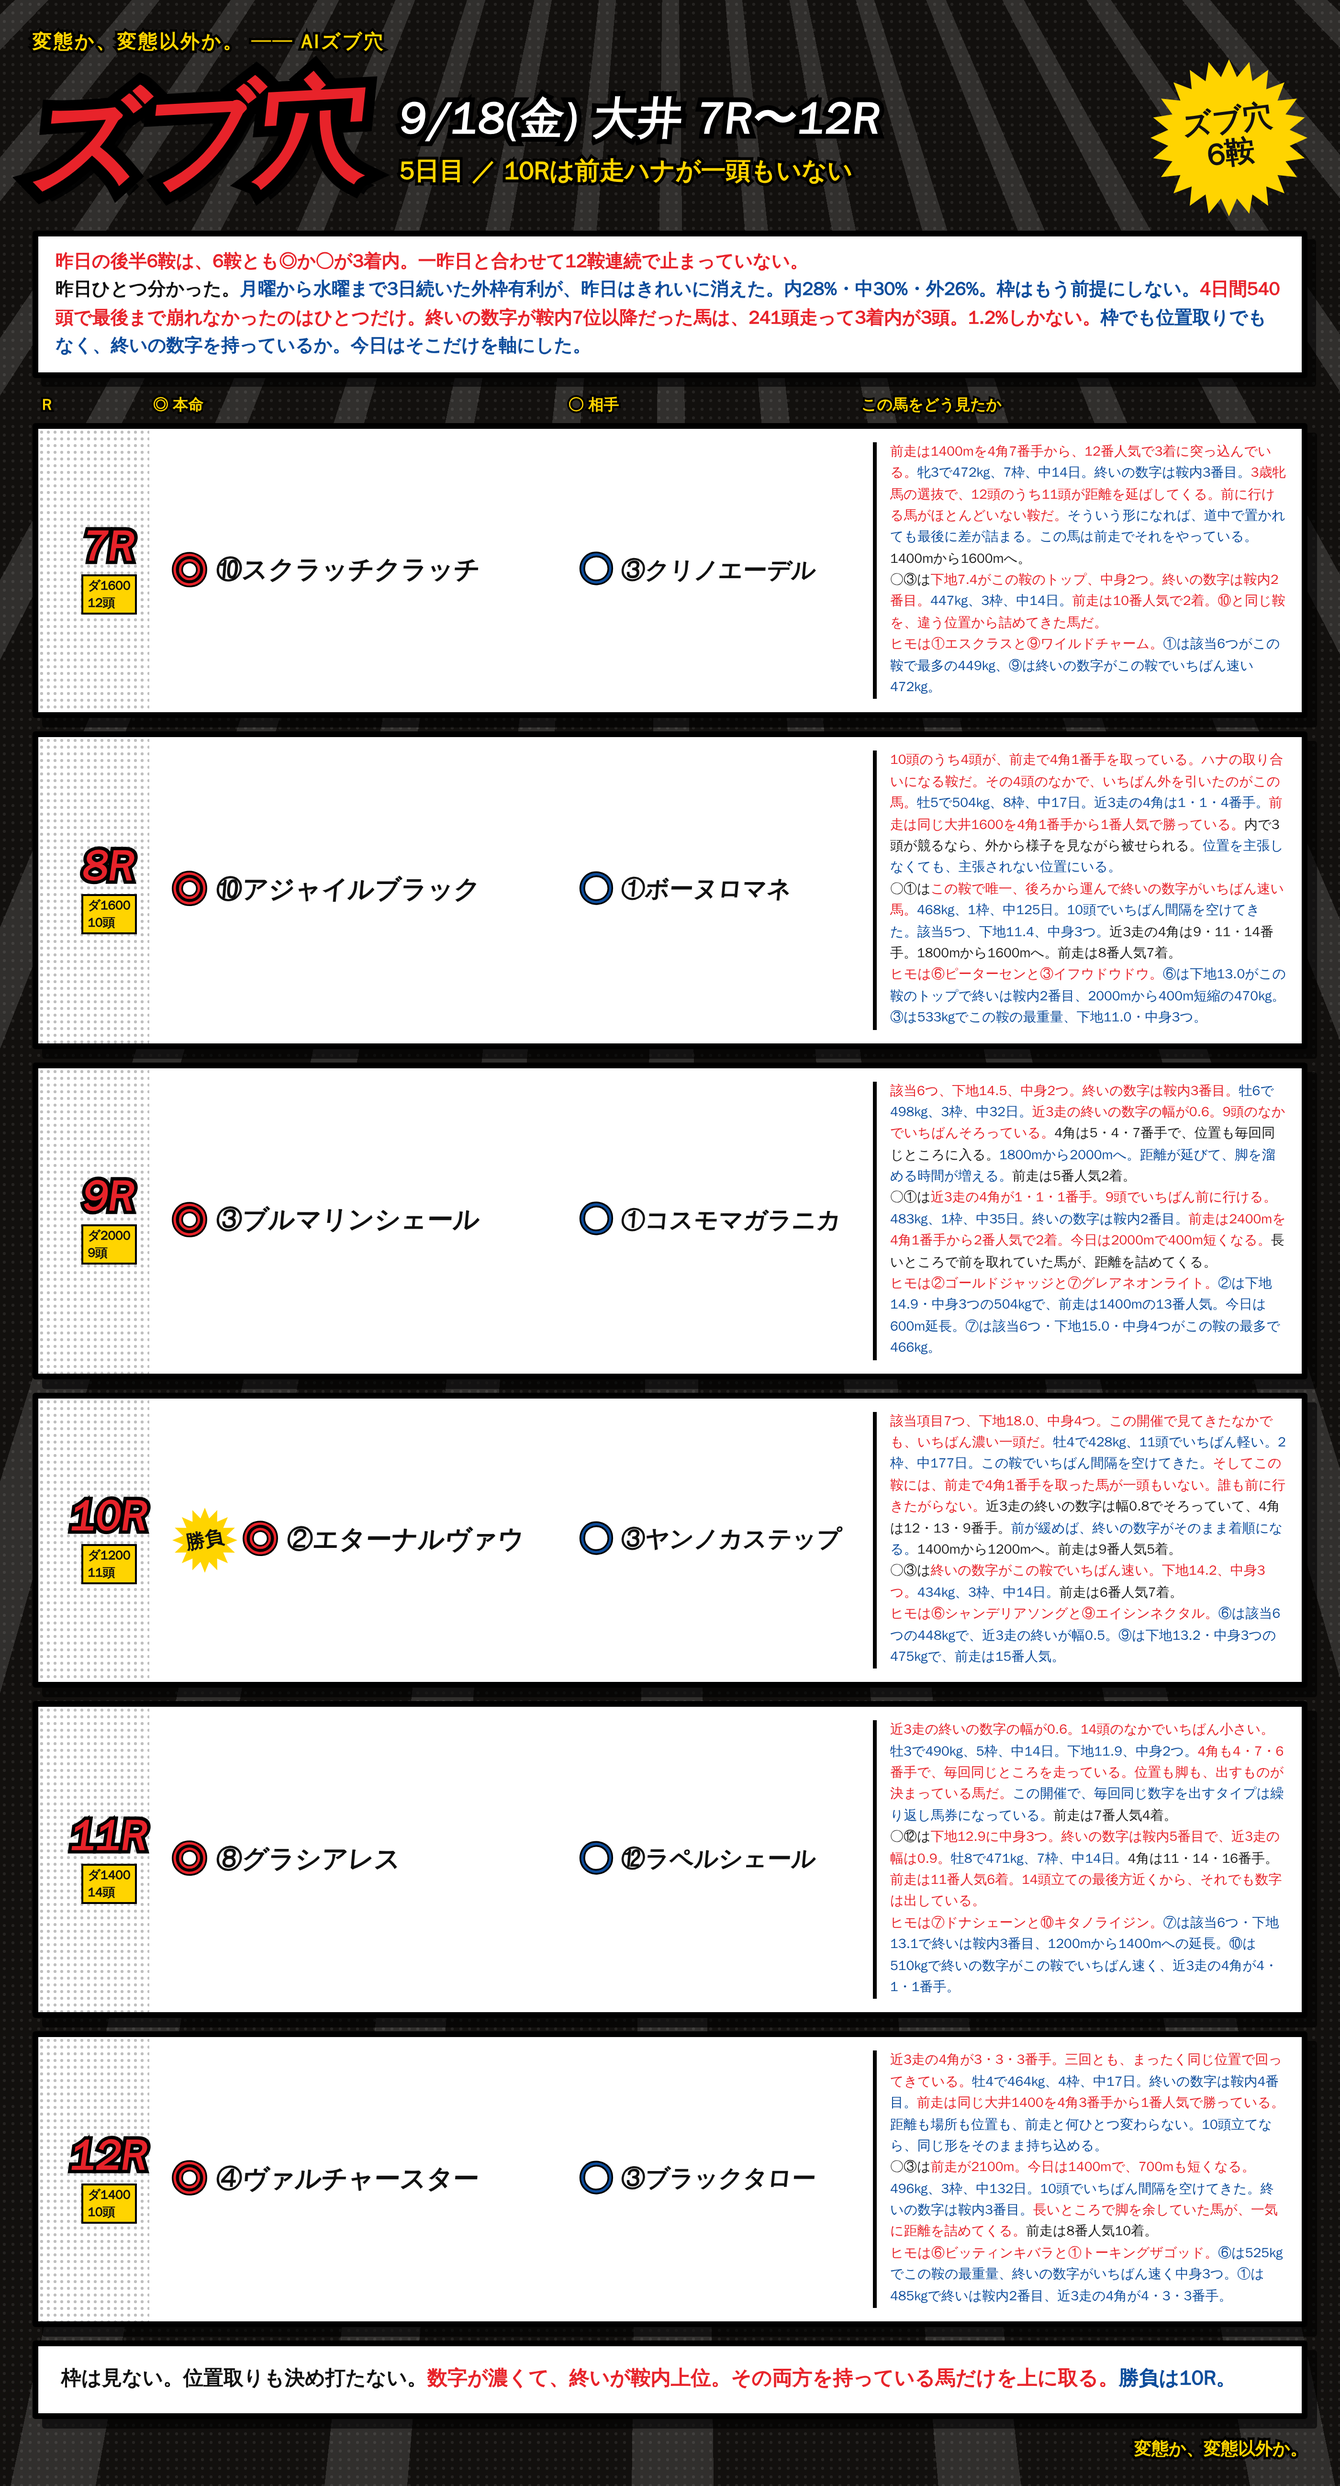
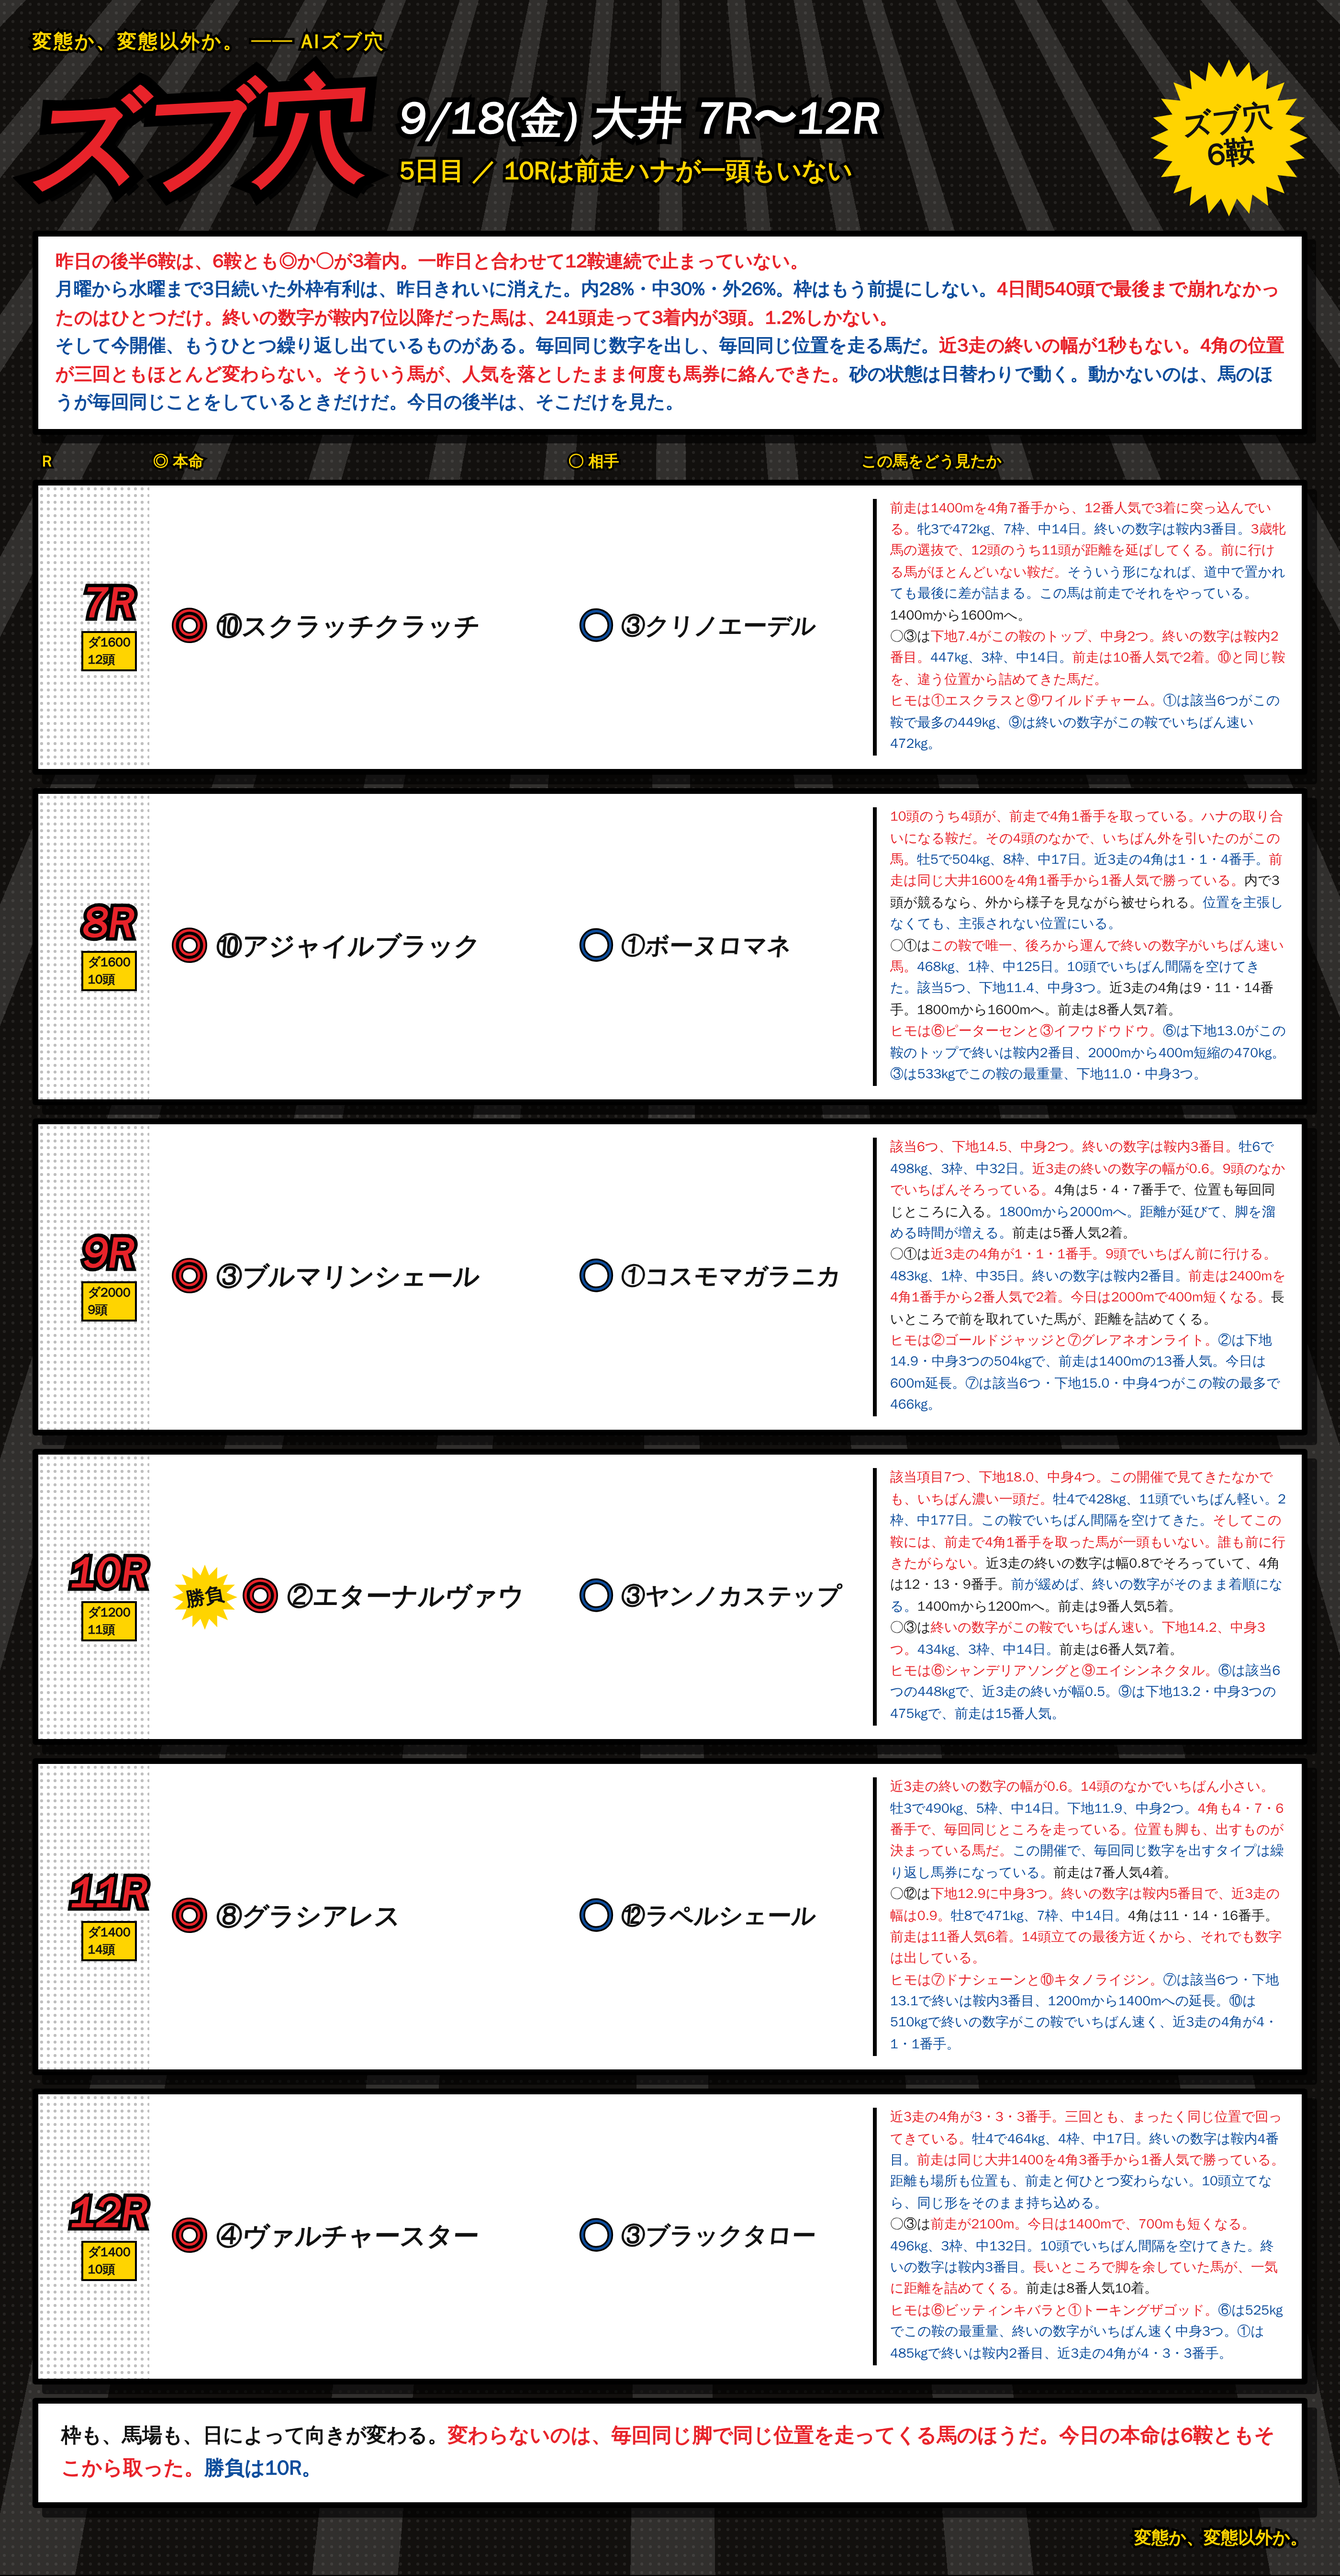
後半カードのリード文とフッターを差し替え
◎6頭に共通するのが「毎回同じ数字・同じ位置」だったため、
説明をその軸に書き替えた。

Claude-Session: https://claude.ai/code/session_01RoHscZkr96FNaxQWvUqgEw

diff --git a/notes/live/2026-09-18/oi_7_12.html b/notes/live/2026-09-18/oi_7_12.html
@@ -79,7 +79,7 @@
 <body><div class="card"><div class="lines"></div><div class="tone"></div><div class="inner">
 <div class="kicker">変態か、変態以外か。 ── AIズブ穴</div>
 <div class="head"><div class="gekiga">ズブ穴</div><div class="dateblk"><div class="d1">9/18(金) 大井 7R〜12R</div><div class="d2">5日目 ／ 10Rは前走ハナが一頭もいない</div></div><div class="burst"><span>ズブ穴<br>6鞍</span></div></div>
-<div class="lead"><span class="r">昨日の後半6鞍は、6鞍とも◎か○が3着内。一昨日と合わせて12鞍連続で止まっていない。</span><br>昨日ひとつ分かった。<span class="b">月曜から水曜まで3日続いた外枠有利が、昨日はきれいに消えた。内28%・中30%・外26%。枠はもう前提にしない。</span><span class="r">4日間540頭で最後まで崩れなかったのはひとつだけ。終いの数字が鞍内7位以降だった馬は、241頭走って3着内が3頭。1.2%しかない。</span><span class="b">枠でも位置取りでもなく、終いの数字を持っているか。今日はそこだけを軸にした。</span></div>
+<div class="lead"><span class="r">昨日の後半6鞍は、6鞍とも◎か○が3着内。一昨日と合わせて12鞍連続で止まっていない。</span><br><span class="b">月曜から水曜まで3日続いた外枠有利は、昨日きれいに消えた。内28%・中30%・外26%。枠はもう前提にしない。</span><span class="r">4日間540頭で最後まで崩れなかったのはひとつだけ。終いの数字が鞍内7位以降だった馬は、241頭走って3着内が3頭。1.2%しかない。</span><br><span class="b">そして今開催、もうひとつ繰り返し出ているものがある。毎回同じ数字を出し、毎回同じ位置を走る馬だ。</span><span class="r">近3走の終いの幅が1秒もない。4角の位置が三回ともほとんど変わらない。そういう馬が、人気を落としたまま何度も馬券に絡んできた。</span><span class="b">砂の状態は日替わりで動く。動かないのは、馬のほうが毎回同じことをしているときだけだ。今日の後半は、そこだけを見た。</span></div>
 <div class="cols"><div class="cR">R</div><div class="cH">◎ 本命</div><div class="cA">○ 相手</div><div class="cM">この馬をどう見たか</div></div>
 <div class="row"><div class="corner"></div><div class="rN"><div class="n">7R</div><div class="d">ダ1600<br>12頭</div></div><div class="hm"><span class="mk">◎</span><span class="nm">⑩スクラッチクラッチ</span></div><div class="at"><span class="mk2">○</span><span class="nm2">③クリノエーデル</span></div><div class="memo"><b class="r">前走は1400mを4角7番手から、12番人気で3着に突っ込んでいる。</b><b>牝3で472kg、7枠、中14日。終いの数字は鞍内3番目。</b><b class="r">3歳牝馬の選抜で、12頭のうち11頭が距離を延ばしてくる。前に行ける馬がほとんどいない鞍だ。</b><b>そういう形になれば、道中で置かれても最後に差が詰まる。この馬は前走でそれをやっている。</b>1400mから1600mへ。<br>○③は<b class="r">下地7.4がこの鞍のトップ、中身2つ。終いの数字は鞍内2番目。</b><b>447kg、3枠、中14日。</b><b class="r">前走は10番人気で2着。⑩と同じ鞍を、違う位置から詰めてきた馬だ。</b><br><b class="r">ヒモは①エスクラスと⑨ワイルドチャーム。</b><b>①は該当6つがこの鞍で最多の449kg、⑨は終いの数字がこの鞍でいちばん速い472kg。</b></div></div>
 <div class="row"><div class="corner"></div><div class="rN"><div class="n">8R</div><div class="d">ダ1600<br>10頭</div></div><div class="hm"><span class="mk">◎</span><span class="nm">⑩アジャイルブラック</span></div><div class="at"><span class="mk2">○</span><span class="nm2">①ボーヌロマネ</span></div><div class="memo"><b class="r">10頭のうち4頭が、前走で4角1番手を取っている。ハナの取り合いになる鞍だ。</b><b class="r">その4頭のなかで、いちばん外を引いたのがこの馬。</b><b>牡5で504kg、8枠、中17日。近3走の4角は1・1・4番手。</b><b class="r">前走は同じ大井1600を4角1番手から1番人気で勝っている。</b>内で3頭が競るなら、外から様子を見ながら被せられる。<b>位置を主張しなくても、主張されない位置にいる。</b><br>○①は<b class="r">この鞍で唯一、後ろから運んで終いの数字がいちばん速い馬。</b><b>468kg、1枠、中125日。10頭でいちばん間隔を空けてきた。該当5つ、下地11.4、中身3つ。</b>近3走の4角は9・11・14番手。1800mから1600mへ。前走は8番人気7着。<br><b class="r">ヒモは⑥ピーターセンと③イフウドウドウ。</b><b>⑥は下地13.0がこの鞍のトップで終いは鞍内2番目、2000mから400m短縮の470kg。③は533kgでこの鞍の最重量、下地11.0・中身3つ。</b></div></div>
@@ -87,6 +87,6 @@
 <div class="row"><div class="corner"></div><div class="rN"><div class="n">10R</div><div class="d">ダ1200<br>11頭</div></div><div class="hm"><div class="sb"><span>勝負</span></div><span class="mk">◎</span><span class="nm">②エターナルヴァウ</span></div><div class="at"><span class="mk2">○</span><span class="nm2">③ヤンノカステップ</span></div><div class="memo"><b class="r">該当項目7つ、下地18.0、中身4つ。この開催で見てきたなかでも、いちばん濃い一頭だ。</b><b>牡4で428kg、11頭でいちばん軽い。2枠、中177日。この鞍でいちばん間隔を空けてきた。</b><b class="r">そしてこの鞍には、前走で4角1番手を取った馬が一頭もいない。誰も前に行きたがらない。</b>近3走の終いの数字は幅0.8でそろっていて、4角は12・13・9番手。<b>前が緩めば、終いの数字がそのまま着順になる。</b>1400mから1200mへ。前走は9番人気5着。<br>○③は<b class="r">終いの数字がこの鞍でいちばん速い。下地14.2、中身3つ。</b><b>434kg、3枠、中14日。</b>前走は6番人気7着。<br><b class="r">ヒモは⑥シャンデリアソングと⑨エイシンネクタル。</b><b>⑥は該当6つの448kgで、近3走の終いが幅0.5。⑨は下地13.2・中身3つの475kgで、前走は15番人気。</b></div></div>
 <div class="row"><div class="corner"></div><div class="rN"><div class="n">11R</div><div class="d">ダ1400<br>14頭</div></div><div class="hm"><span class="mk">◎</span><span class="nm">⑧グラシアレス</span></div><div class="at"><span class="mk2">○</span><span class="nm2">⑫ラペルシェール</span></div><div class="memo"><b class="r">近3走の終いの数字の幅が0.6。14頭のなかでいちばん小さい。</b><b>牡3で490kg、5枠、中14日。下地11.9、中身2つ。</b><b class="r">4角も4・7・6番手で、毎回同じところを走っている。位置も脚も、出すものが決まっている馬だ。</b><b>この開催で、毎回同じ数字を出すタイプは繰り返し馬券になっている。</b>前走は7番人気4着。<br>○⑫は<b class="r">下地12.9に中身3つ。終いの数字は鞍内5番目で、近3走の幅は0.9。</b><b>牡8で471kg、7枠、中14日。</b>4角は11・14・16番手。<b class="r">前走は11番人気6着。14頭立ての最後方近くから、それでも数字は出している。</b><br><b class="r">ヒモは⑦ドナシェーンと⑩キタノライジン。</b><b>⑦は該当6つ・下地13.1で終いは鞍内3番目、1200mから1400mへの延長。⑩は510kgで終いの数字がこの鞍でいちばん速く、近3走の4角が4・1・1番手。</b></div></div>
 <div class="row"><div class="corner"></div><div class="rN"><div class="n">12R</div><div class="d">ダ1400<br>10頭</div></div><div class="hm"><span class="mk">◎</span><span class="nm">④ヴァルチャースター</span></div><div class="at"><span class="mk2">○</span><span class="nm2">③ブラックタロー</span></div><div class="memo"><b class="r">近3走の4角が3・3・3番手。三回とも、まったく同じ位置で回ってきている。</b><b>牡4で464kg、4枠、中17日。終いの数字は鞍内4番目。</b><b class="r">前走は同じ大井1400を4角3番手から1番人気で勝っている。</b><b>距離も場所も位置も、前走と何ひとつ変わらない。10頭立てなら、同じ形をそのまま持ち込める。</b><br>○③は<b class="r">前走が2100m。今日は1400mで、700mも短くなる。</b><b>496kg、3枠、中132日。10頭でいちばん間隔を空けてきた。終いの数字は鞍内3番目。</b><b class="r">長いところで脚を余していた馬が、一気に距離を詰めてくる。</b>前走は8番人気10着。<br><b class="r">ヒモは⑥ビッティンキバラと①トーキングザゴッド。</b><b>⑥は525kgでこの鞍の最重量、終いの数字がいちばん速く中身3つ。①は485kgで終いは鞍内2番目、近3走の4角が4・3・3番手。</b></div></div>
-<div class="foot">枠は見ない。位置取りも決め打たない。<span class="r">数字が濃くて、終いが鞍内上位。その両方を持っている馬だけを上に取る。</span><span class="b">勝負は10R。</span></div>
+<div class="foot">枠も、馬場も、日によって向きが変わる。<span class="r">変わらないのは、毎回同じ脚で同じ位置を走ってくる馬のほうだ。今日の本命は6鞍ともそこから取った。</span><span class="b">勝負は10R。</span></div>
 <div class="sig">変態か、変態以外か。</div>
 </div></div></body></html>
